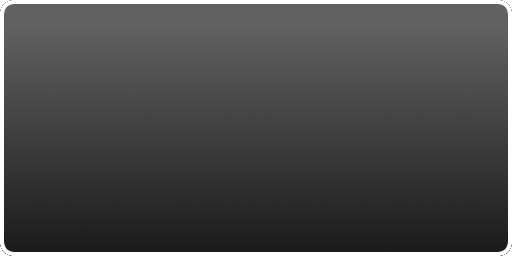
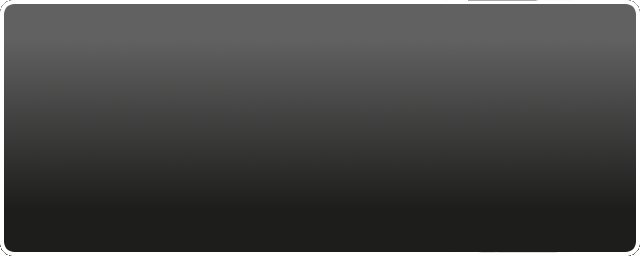
Tutorial placeholder buttons

diff --git a/shooter/tutorials/speech_window.py b/shooter/tutorials/speech_window.py
@@ -5,12 +5,15 @@ import shooter.ui_manager
 class SpeechWindow:
 
     PADDING = 16
+    BUTTON_PADDING = 16
 
     def __init__(self):
         self.window = pyglet.sprite.Sprite(pyglet.image.load("images/text-window.png"), 0, 0)
         self.window.x = (shooter.obj.GAME_WIDTH - self.window.width) / 2
         self.window.y = (shooter.obj.GAME_HEIGHT - self.window.height) / 2
         self.closed = False
+        self.buttons = []
+        self.button_callbacks = {} # button => callback
 
         self.text_label = pyglet.text.Label("", font_name = shooter.ui_manager.UiManager.FONT_NAME, 
             y = self.window.y + self.window.height - 2 * SpeechWindow.PADDING, multiline = True,            
@@ -39,5 +42,26 @@ class SpeechWindow:
 
             self.text_label.draw()
 
+            for button in self.buttons:
+                button.draw()
+
     def close(self):
         self.closed = True
+
+    def add_button(self, image, callback):
+        button = pyglet.sprite.Sprite(pyglet.image.load(image))        
+        button.y = self.window.y + SpeechWindow.PADDING
+        
+        x = self.window.x + SpeechWindow.PADDING
+        if self.avatar != None:
+            x += self.avatar.width + SpeechWindow.PADDING
+
+        if len(self.buttons) > 0:
+            previous_button = self.buttons[-1]
+            x = previous_button.x + previous_button.width + SpeechWindow.BUTTON_PADDING
+
+        button.x = x
+
+        self.buttons.append(button)
+        self.button_callbacks[button] = callback     
+        

diff --git a/shooter/tutorials/story_and_controls.py b/shooter/tutorials/story_and_controls.py
@@ -1,3 +1,6 @@
+import pyglet
+from pyglet.window import mouse
+
 import shooter.obj
 import shooter.tutorials.speech_window
 import shooter.tutorials.base_tutorial
@@ -7,6 +10,10 @@ class StoryAndControls(shooter.tutorials.base_tutorial.BaseTutorial):
         self.showing = "1"
         self.window = shooter.tutorials.speech_window.SpeechWindow()
         self.window.show("More Muslim meat for my armies! I'll chase you to the ends of the galaxy!", "dajjal")
+
+        # Click already registers globally, no need to act        
+        self.window.add_button('images/next-button.png', None)
+        self.window.add_button('images/skip-button.png', None)
         self.closed = False
 
     def draw(self):
@@ -26,3 +33,11 @@ class StoryAndControls(shooter.tutorials.base_tutorial.BaseTutorial):
             else:
                self.window.close()
                self.closed = True
+
+    def on_click(self, button, x, y):
+        for button in self.window.buttons:
+            if x >= button.x and x <= button.x + button.width and y >= button.y and y <= button.y + button.height:
+                print("xlixked {0}, {1}; b goes from {2}, {3} to {4}, {5}".format(x, y, button.x, button.y, button.x + button.width, button.y + button.height))
+                callback = self.window.button_callbacks[button]
+                if callback != None:
+                    callback()

diff --git a/shooter/proc.py b/shooter/proc.py
@@ -43,6 +43,8 @@ class Screen:			#Class handling window and window related functions (Draw, Event
         # Methods are all private because we need them declared before we push the handlers
         def on_mouse_press(x, y, button, modifiers):
             self.mouse_pressed(x,y,button)
+            if shooter.tutorials.tutorial_manager._current_tutorial != None:
+                shooter.tutorials.tutorial_manager._current_tutorial.on_click(button, x, y)
 
         def on_mouse_release(x,y,button, modifiers):
             self.mouse_released(button)

diff --git a/shooter/tutorials/base_tutorial.py b/shooter/tutorials/base_tutorial.py
@@ -10,6 +10,10 @@ class BaseTutorial:
     def update(self, key):
         pass
 
+    # virtual
+    def on_click(self, button, x, y):
+        pass
+
     # helper method: keys/mouse we use to signal next/close the tutorial
     # note: spams. If you press space, you probably get 3-4 of these events.
     def check_input_to_advance(self, symbol):
